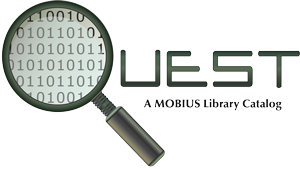
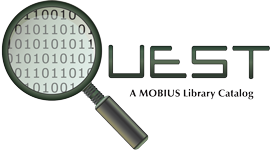
Made more changes to the Quest redesign

diff --git a/styles_s0.css b/styles_s0.css
@@ -1,10 +1,10 @@
 .topLogoImage {
-    padding: 8px 10px;
+    padding: 5px 10px;
     position: relative;
     z-index:2;
-    margin-bottom:-53px;
+    margin-bottom:-50px;
 }
 
 .mobiusLogo {
-    top:40px;
+    top:30px;
 }
